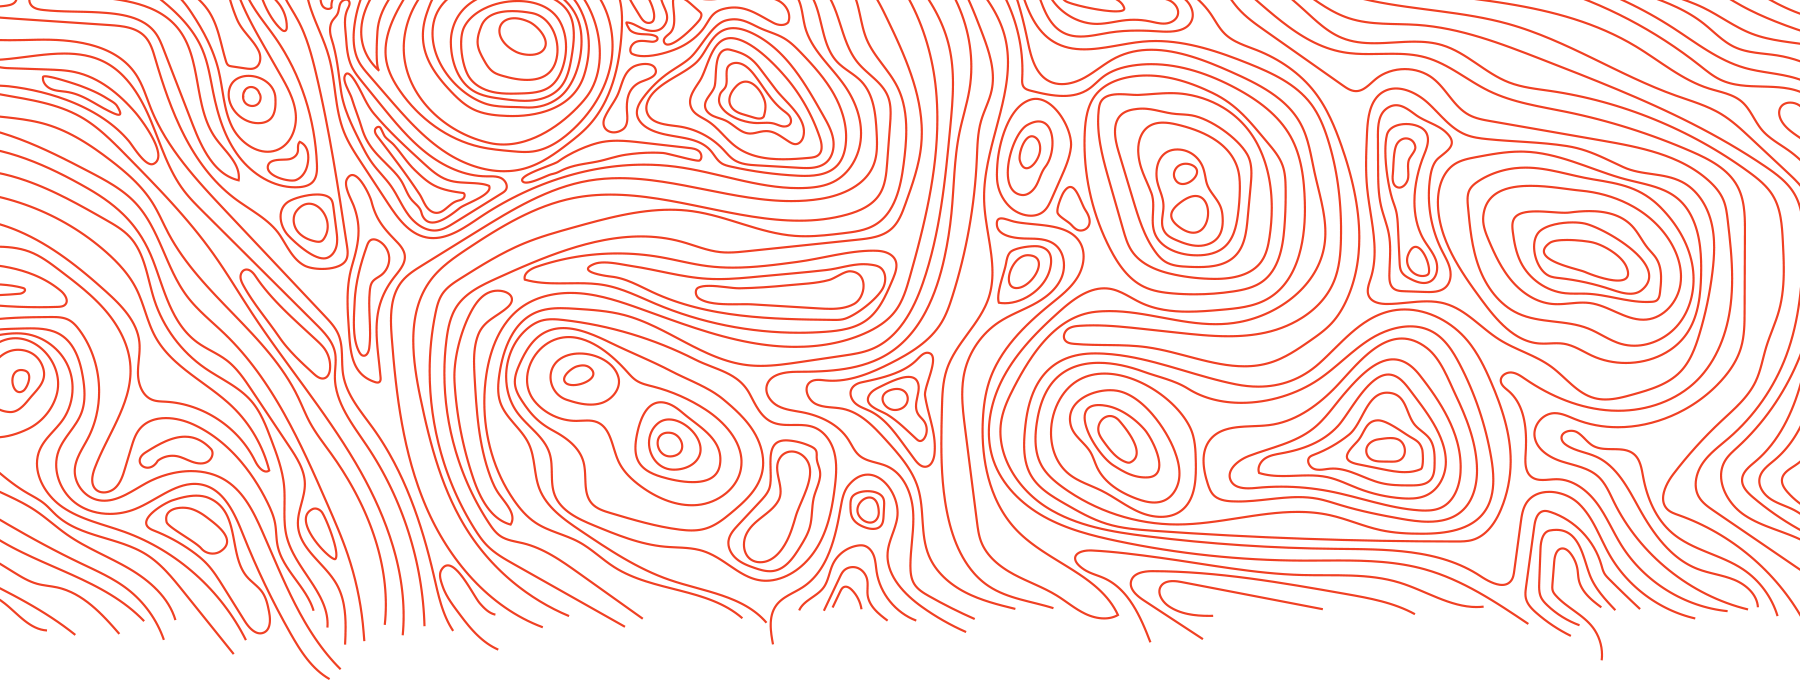
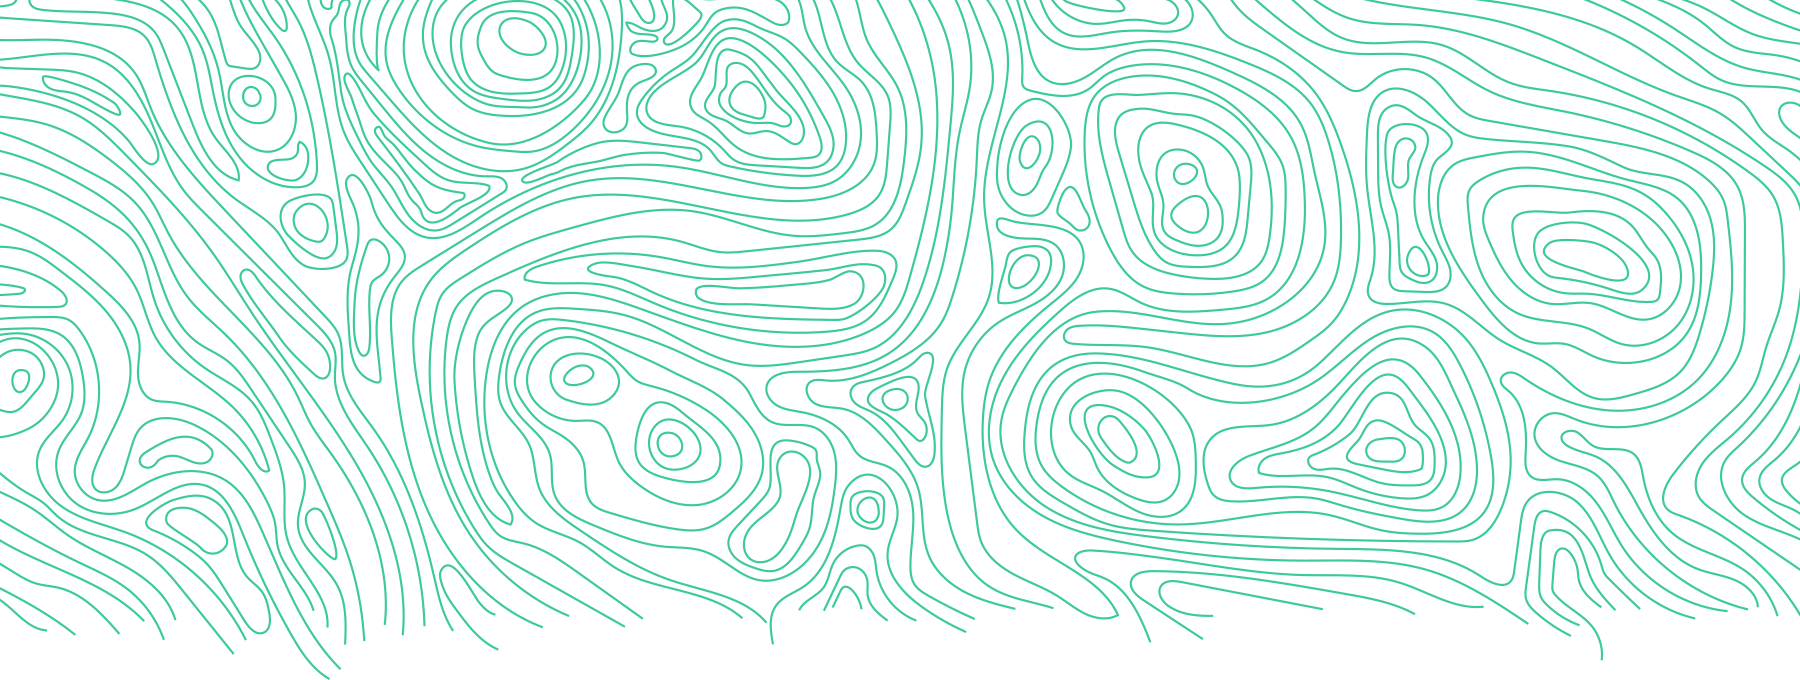
change colors. add footer with links.

Changed region(s): [[0.0, 0.0, 1.0, 0.9882], [0.3422, 0.8338, 0.3733, 0.8647]]

diff --git a/src/components/Footer.js b/src/components/Footer.js
@@ -1,0 +1,53 @@
+import React, {Component, PropTypes} from 'react';
+import {Link} from 'react-router';
+
+// Components
+import Container from './Container';
+import Logo from './Logo';
+
+// Styles
+import './Footer.scss';
+
+class Footer extends Component {
+  render() {
+    return (
+      <footer className='Footer'>
+        <Container size={'fullWidth'}>
+          <Container size={'maxWidth'} className='innerContainer'>
+            <Logo className='logo'/>
+            <p className='tagline'>a super cool little design studio</p>
+            <ul className='navList'>
+              <li className='navListItem'>
+                <Link
+                  to='/'
+                  className='navLink'>
+                  what we do
+                </Link>
+              </li>
+              <li className='navListItem'>
+                <Link
+                  to='/how-we-do-it'
+                  className='navLink'>
+                  how we do it
+                </Link>
+              </li>
+              <li className='navListItem'>
+                <Link
+                  to='/contact-us'
+                  className='navLink navButton'>
+                  contact us
+                </Link>
+              </li>
+            </ul>
+            <small className='copyright'>
+              made with love, magic, and beer in MKE
+              <br/>&copy; niknak 2017 ayyyyy
+            </small>
+          </Container>
+        </Container>
+      </footer>
+    )
+  }
+}
+
+export default Footer;

diff --git a/src/components/Footer.scss b/src/components/Footer.scss
@@ -1,0 +1,55 @@
+@import '../styles/utils.scss';
+@import '../styles/variables.scss';
+
+.Footer {
+  background: $colorAccent;
+  padding: $spacePx*4 0;
+
+  .innerContainer {
+    display: flex;
+    flex-direction: column;
+    align-items: center;
+    text-align: center;
+    font-weight: 700;
+  }
+
+  .logo {
+    fill: $colorBlack;
+    width: 80px;
+    margin: 0 0 $spacePx 0;
+  }
+
+  .tagline {
+    font-family: $fontSans;
+    font-size: px-to-rem(14);
+  }
+
+  .navList {
+    margin: 0 0 $spacePx 0;
+    padding: 0;
+  }
+
+  .navListItem {
+    margin: 0 0 $spacePx/2;
+    padding: 0;
+    list-style-type: none;
+    line-height: 1;
+
+    &:last-of-type {
+      margin-bottom: 0;
+    }
+  }
+
+  .navLink {
+    text-decoration: none;
+    font-family: $fontSans;
+    font-size: px-to-rem(14);
+  }
+
+  .copyright {
+    display: block;
+    font-size: px-to-rem(12);
+    opacity: .33;
+    line-height: 1.75;
+  }
+}

diff --git a/src/routes/ContactUs.js b/src/routes/ContactUs.js
@@ -3,6 +3,7 @@ import React, {Component} from 'react';
 // Components
 import BlankHero from '../components/BlankHero';
 import ContactForm from '../components/ContactForm';
+import Footer from '../components/Footer';
 import FooterCta from '../components/FooterCta';
 
 class ContactUs extends Component {
@@ -11,7 +12,7 @@ class ContactUs extends Component {
       <div>
         <BlankHero className='opt3' />
         <ContactForm />
-        <FooterCta displayWhatWeDo displayHowWeDoIt />
+        <Footer />
       </div>
     )
   }

diff --git a/src/styles/_forms.scss b/src/styles/_forms.scss
@@ -13,7 +13,7 @@ form {
     font-size: px-to-rem(14);
     font-family: $fontSans;
     font-weight: 700;
-    color: $colorSecondary;
+    color: $colorPrimary;
     margin: 0 0 $spacePx/2 0;
     line-height: 1;
   }
@@ -25,7 +25,7 @@ form {
     -webkit-appearance: none;
     font-family: $fontSerif;
     border: 2px solid rgba($colorPrimary, .22);
-    transition: all .2s;
+    transition: all .2s ease-in-out;
     border-radius: $borderRadius;
     font-size: px-to-rem(16);
     padding: $spacePx;

diff --git a/src/styles/_utils.scss b/src/styles/_utils.scss
@@ -41,14 +41,25 @@
 
 // Buttons
 @mixin buttonBase($color) {
-  border: none;
+  border: 3px solid rgba($color, 0);
   border-radius: $borderRadius;
+  cursor: pointer;
   line-height: 1;
   background: $color;
   font-weight: 700;
   font-family: $fontSans;
   text-decoration: none;
   color: #fff;
+  transition: all .2s ease-in-out;
+
+  &:hover,
+  &:focus,
+  &:active {
+    border-color: $color;
+    background: none;
+    color: $color;
+    outline: none;
+  }
 }
 
 @mixin button($color) {

diff --git a/src/routes/HowWeDoIt.js b/src/routes/HowWeDoIt.js
@@ -2,6 +2,7 @@ import React, {Component} from 'react';
 
 // Components
 import BlankHero from '../components/BlankHero';
+import Footer from '../components/Footer';
 import FooterCta from '../components/FooterCta';
 import ProcessGrid from '../components/ProcessGrid';
 
@@ -12,6 +13,7 @@ class HowWeDoIt extends Component {
         <BlankHero className='opt3'/>
         <ProcessGrid />
         <FooterCta displayWhatWeDo displayContactUs/>
+        <Footer/>
       </div>
     )
   }

diff --git a/src/routes/Home.js b/src/routes/Home.js
@@ -1,6 +1,7 @@
 import React, {Component} from 'react';
 
 // Components
+import Footer from '../components/Footer';
 import FooterCta from '../components/FooterCta';
 import HomeHero from '../components/HomeHero';
 import WorkGrid from '../components/WorkGrid';
@@ -12,6 +13,7 @@ class Home extends Component {
         <HomeHero/>
         <WorkGrid/>
         <FooterCta displayHowWeDoIt displayContactUs/>
+        <Footer/>
       </div>
     )
   }

diff --git a/src/components/FooterCta.scss b/src/components/FooterCta.scss
@@ -13,15 +13,15 @@
     display: block;
     position: absolute;
     height: 100%;
-    opacity: .11;
+    opacity: .22;
     width: 100%;
   }
 
   .innerContainer {
     display: flex;
     flex-direction: column;
-    padding-bottom: $spacePx*4;
-    padding-top: $spacePx*4;
+    padding-bottom: $spacePx*5;
+    padding-top: $spacePx*5;
     position: relative;
     z-index: 1;
 

diff --git a/src/styles/_variables.scss b/src/styles/_variables.scss
@@ -1,9 +1,9 @@
 // Colors
-$colorBlack: #292139;
-$colorPrimary: #F33F18;
-$colorSecondary: #FB4476;
-$colorAccent: #FFC3D3;
-$colorSecondAccent: #FEF38F;
+$colorBlack: #14203A;
+$colorPrimary: #FF5EAC;
+$colorSecondary: #3CCA9C;
+$colorAccent: #EAF893;
+$colorSecondAccent: #FFE69F;
 
 // Fonts
 $fontSans: 'Montserrat', sans-serif;

diff --git a/src/components/HomeHero.scss b/src/components/HomeHero.scss
@@ -15,7 +15,7 @@
     display: block;
     position: absolute;
     height: calc(100% + 100px);
-    opacity: .15;
+    opacity: .22;
     width: 100%;
   }
 
@@ -38,6 +38,8 @@
   .headline {
     margin: 0;
     max-width: 800px;
+    position: relative;
+    z-index: 1;
   }
 
   .headlineLogo {

diff --git a/src/styles/_typography.scss b/src/styles/_typography.scss
@@ -8,7 +8,6 @@ h1 {
 
 h2 {
   font-size: px-to-rem(34);
-  font-style: italic;
   font-family: $fontSerif;
   font-weight: 700;
   line-height: 1.5;
@@ -59,4 +58,8 @@ ul {
   &:last-child {
     margin: 0;
   }
+}
+
+a {
+  color: $colorSecondary;
 }

diff --git a/src/components/BlankHero.scss b/src/components/BlankHero.scss
@@ -17,7 +17,7 @@
     display: block;
     position: absolute;
     height: calc(100% + 100px);
-    opacity: .15;
+    opacity: .22;
     width: 100%;
   }
 
